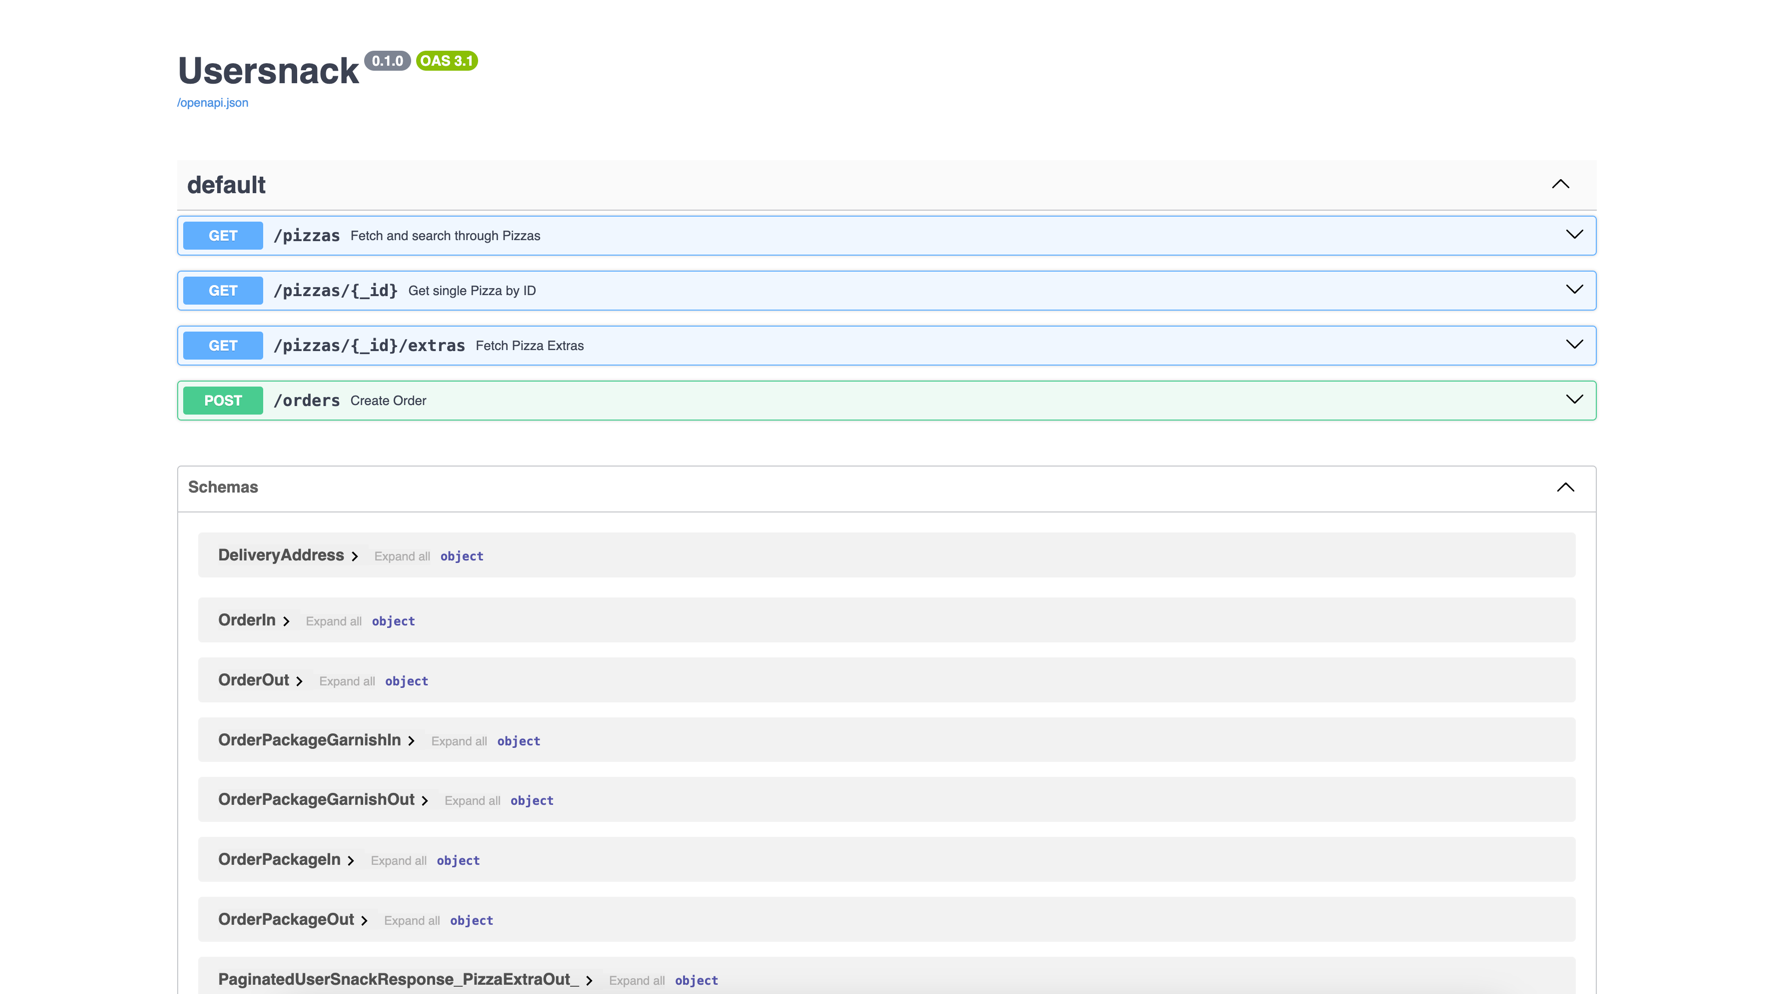
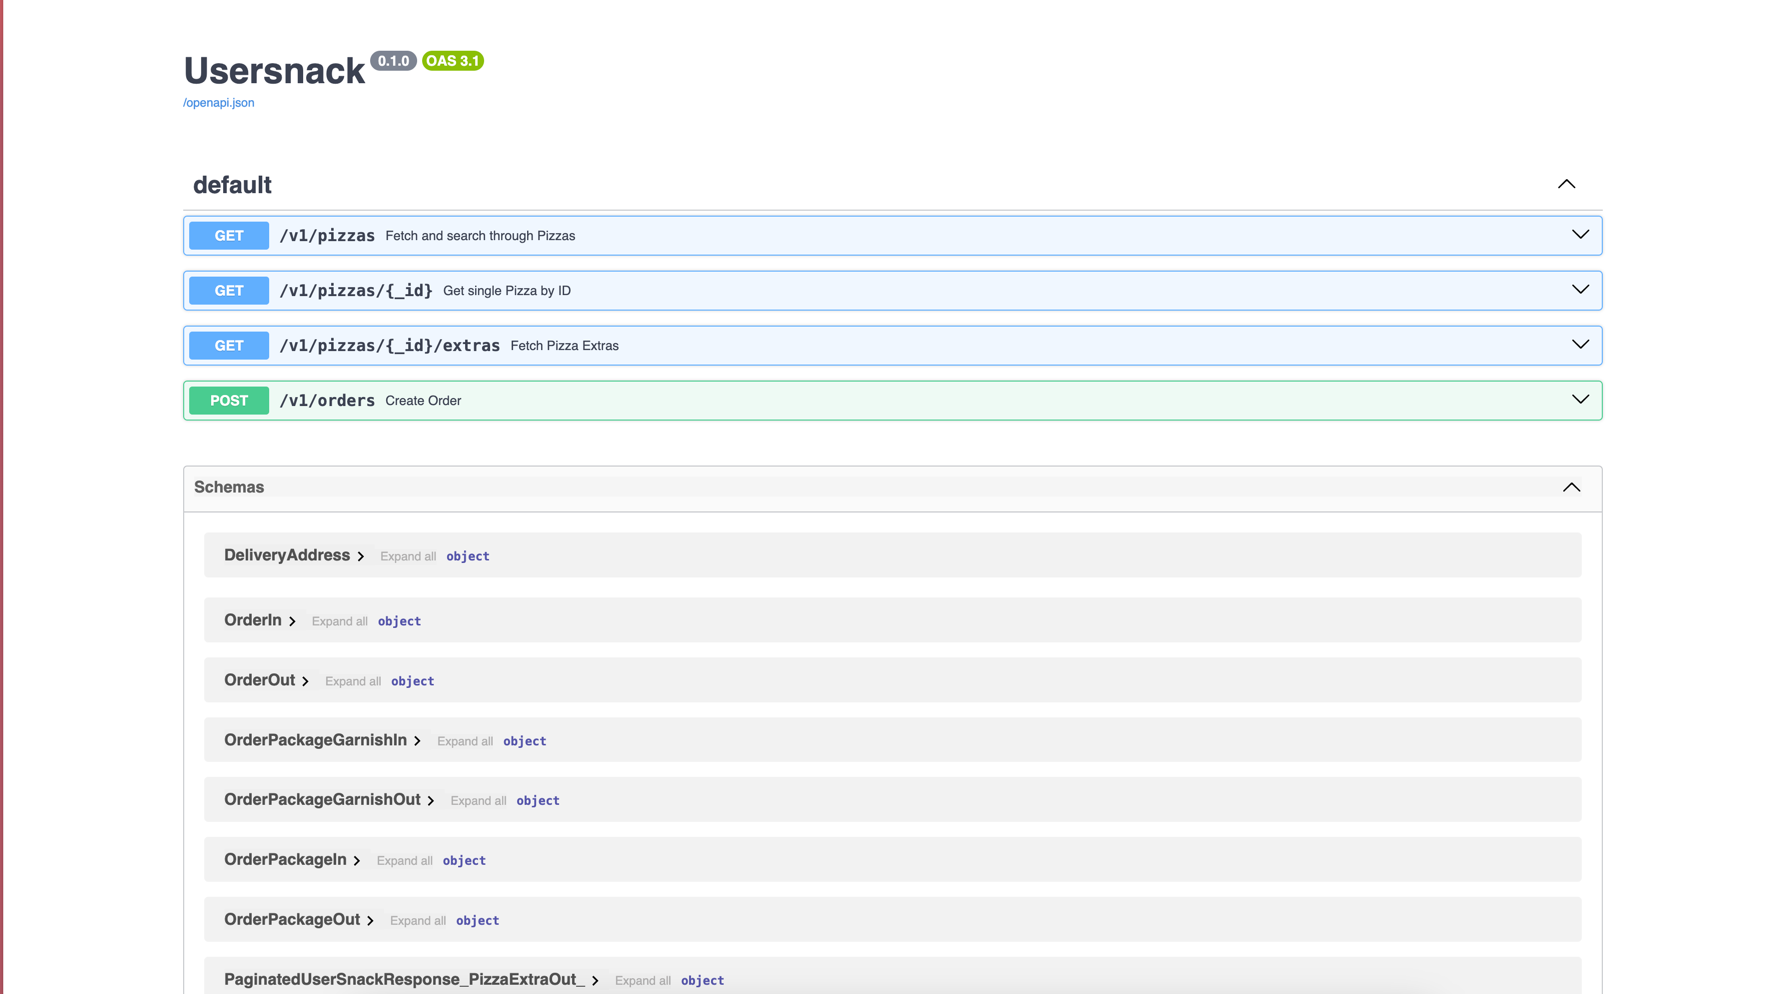
fix: version api versioning

diff --git a/src/routes/tests/test_pizzas_route.py b/src/routes/tests/test_pizzas_route.py
@@ -8,7 +8,7 @@ from db_models.snacks import Pizza
 
 @pytest.mark.asyncio
 async def test_pizzas_list_returns_valid_list(client: AsyncClient) -> None:
-    response = await client.get("/pizzas")
+    response = await client.get("/v1/pizzas")
     assert response.status_code == 200
 
     data = response.json()
@@ -26,11 +26,11 @@ async def test_pizzas_list_returns_valid_list(client: AsyncClient) -> None:
 
 @pytest.mark.asyncio
 async def test_pizzas_list_pagination_works(client: AsyncClient) -> None:
-    response = await client.get("/pizzas", params={"offset": 0, "limit": 10})
+    response = await client.get("/v1/pizzas", params={"offset": 0, "limit": 10})
     assert response.status_code == 200
     data1 = response.json()
 
-    response = await client.get("/pizzas", params={"offset": 10, "limit": 10})
+    response = await client.get("/v1/pizzas", params={"offset": 10, "limit": 10})
     assert response.status_code == 200
     data2 = response.json()
 
@@ -41,7 +41,7 @@ async def test_pizzas_list_pagination_works(client: AsyncClient) -> None:
 
 @pytest.mark.asyncio
 async def test_can_search_pizza_by_name(client: AsyncClient) -> None:
-    response = await client.get("/pizzas", params={"name": "Chicken"})
+    response = await client.get("/v1/pizzas", params={"name": "Chicken"})
     assert response.status_code == 200
     data = response.json()
 
@@ -53,7 +53,7 @@ async def test_can_search_pizza_by_name(client: AsyncClient) -> None:
 async def test_can_retrieve_single_pizza(client: AsyncClient) -> None:
     pizza = await Pizza.all().first()
 
-    response = await client.get(f"/pizzas/{pizza.id}")
+    response = await client.get(f"/v1/pizzas/{pizza.id}")
     assert response.status_code == 200
     data = response.json()
 

diff --git a/src/routes/tests/test_orders_route.py b/src/routes/tests/test_orders_route.py
@@ -42,7 +42,7 @@ async def test_that_valid_order_can_be_created(client: AsyncClient) -> None:
         pizza_quantity=pizza_quantity,
     )
 
-    response = await client.post("/orders", json=order_in)
+    response = await client.post("/v1/orders", json=order_in)
     assert response.status_code == 201
 
     data = response.json()
@@ -107,5 +107,5 @@ async def test_that_valid_order_with_invalid_field_cannot_be_created(
 
     order_in = build_order_in(pizza, extras)
 
-    response = await client.post("/orders", json={**order_in, **override_field})
+    response = await client.post("/v1/orders", json={**order_in, **override_field})
     assert response.status_code == 422

diff --git a/src/main.py b/src/main.py
@@ -43,7 +43,7 @@ app.add_exception_handler(RequestValidationError, handle_validation_exception)
 app.add_exception_handler(ValidationError, handle_validation_exception)
 app.add_exception_handler(ObjectNotFoundError, handle_object_not_found)
 
-app.include_router(v1_router)
+app.include_router(v1_router, prefix="/v1")
 
 if settings.ENV != Environment.PRODUCTION:
     app.mount(settings.MEDIA_PATH_PREFIX, StaticFiles(directory="media"), name="media")
